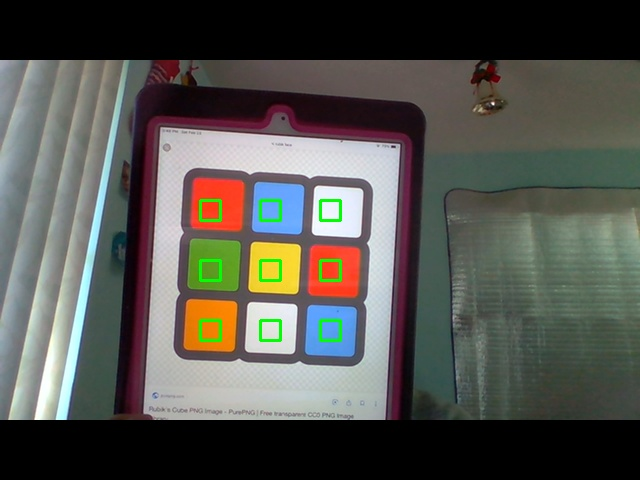
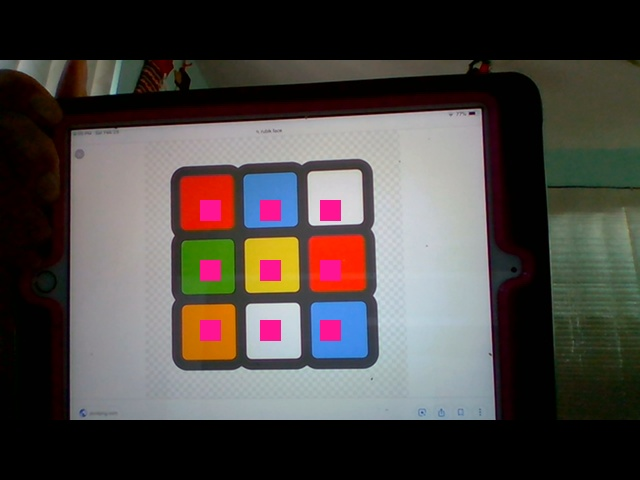
Updated rubikReader

diff --git a/rubikReader.py b/rubikReader.py
@@ -11,10 +11,19 @@ def filterNoise(mask):
 
 
 def filterImage(image):
+    pink = np.uint8([[[147, 20, 255]]])
+    hsv_pink = cv2.cvtColor(pink, cv2.COLOR_BGR2HSV)
+    lower_pink = np.array([hsv_pink[0][0][0] - 10, 100, 100])
+    upper_pink = np.array([hsv_pink[0][0][0] + 5, 255, 255])
+    mask_pink = cv2.inRange(image, lower_pink, upper_pink)
+
+    contoursPink, h = cv2.findContours(
+        mask_pink, cv2.RETR_TREE, cv2.CHAIN_APPROX_SIMPLE)
+
     return
 
 
-rubik = cv2.imread("images/rubik_face.jpg")
+rubik = cv2.imread("images/rubikCapture.jpg")
 
 hsv = cv2.cvtColor(rubik, cv2.COLOR_BGR2HSV)
 
@@ -103,8 +112,25 @@ for i in range(len(contoursWhite)):
     cv2.rectangle(rubik, (x, y), (x+w, y+h), (0, 255, 0), 2)
     print("x = {0}, y = {1}".format(x, y))
 
+pink = np.uint8([[[147, 20, 255]]])
+hsv_pink = cv2.cvtColor(pink, cv2.COLOR_BGR2HSV)
+lower_pink = np.array([hsv_pink[0][0][0] - 1, 100, 100])
+upper_pink = np.array([hsv_pink[0][0][0] + 1, 255, 255])
+mask_pink = cv2.inRange(hsv, lower_pink, upper_pink)
+
+kernel = np.ones((15, 15), np.uint8)/255
+
+# removing background noise
+opening = cv2.morphologyEx(mask_pink, cv2.MORPH_OPEN, kernel)
+kernel = np.ones((20, 20), np.uint8)/400
+# removing inner noise inside object
+closing = cv2.morphologyEx(opening, cv2.MORPH_CLOSE, kernel)
+
+contoursPink, h = cv2.findContours(
+    mask_pink, cv2.RETR_TREE, cv2.CHAIN_APPROX_SIMPLE)
+
 cv2.imshow('image', rubik)
-cv2.imshow('blue', mask_white)
+cv2.imshow('blue', closing)
 
 
 k = cv2.waitKey(0)

diff --git a/rubikCapture.py b/rubikCapture.py
@@ -12,7 +12,8 @@ while True:
                        (200, 320), (260, 320), (320, 320)]
 
     for coord in rectCoordinates:
-        cv2.rectangle(frame, coord, (coord[0]+w, coord[1]+h), (0, 255, 0), -1)
+        cv2.rectangle(
+            frame, coord, (coord[0]+w, coord[1]+h), (147, 20, 255), -1)
 
     cv2.imshow("video", frame)
     key = cv2.waitKey(1) & 0xFF
